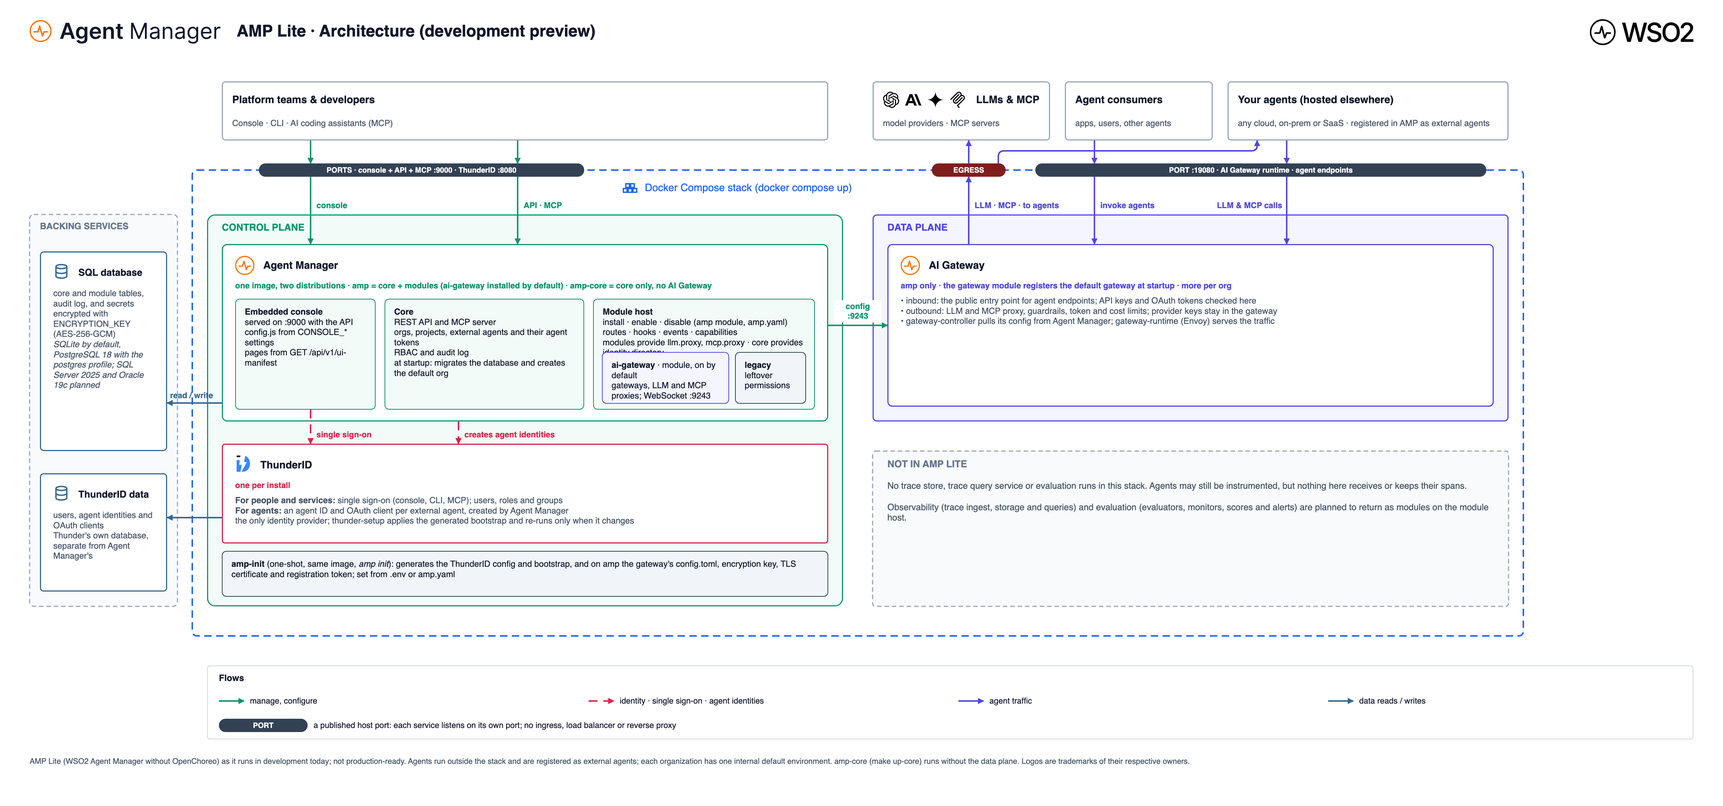
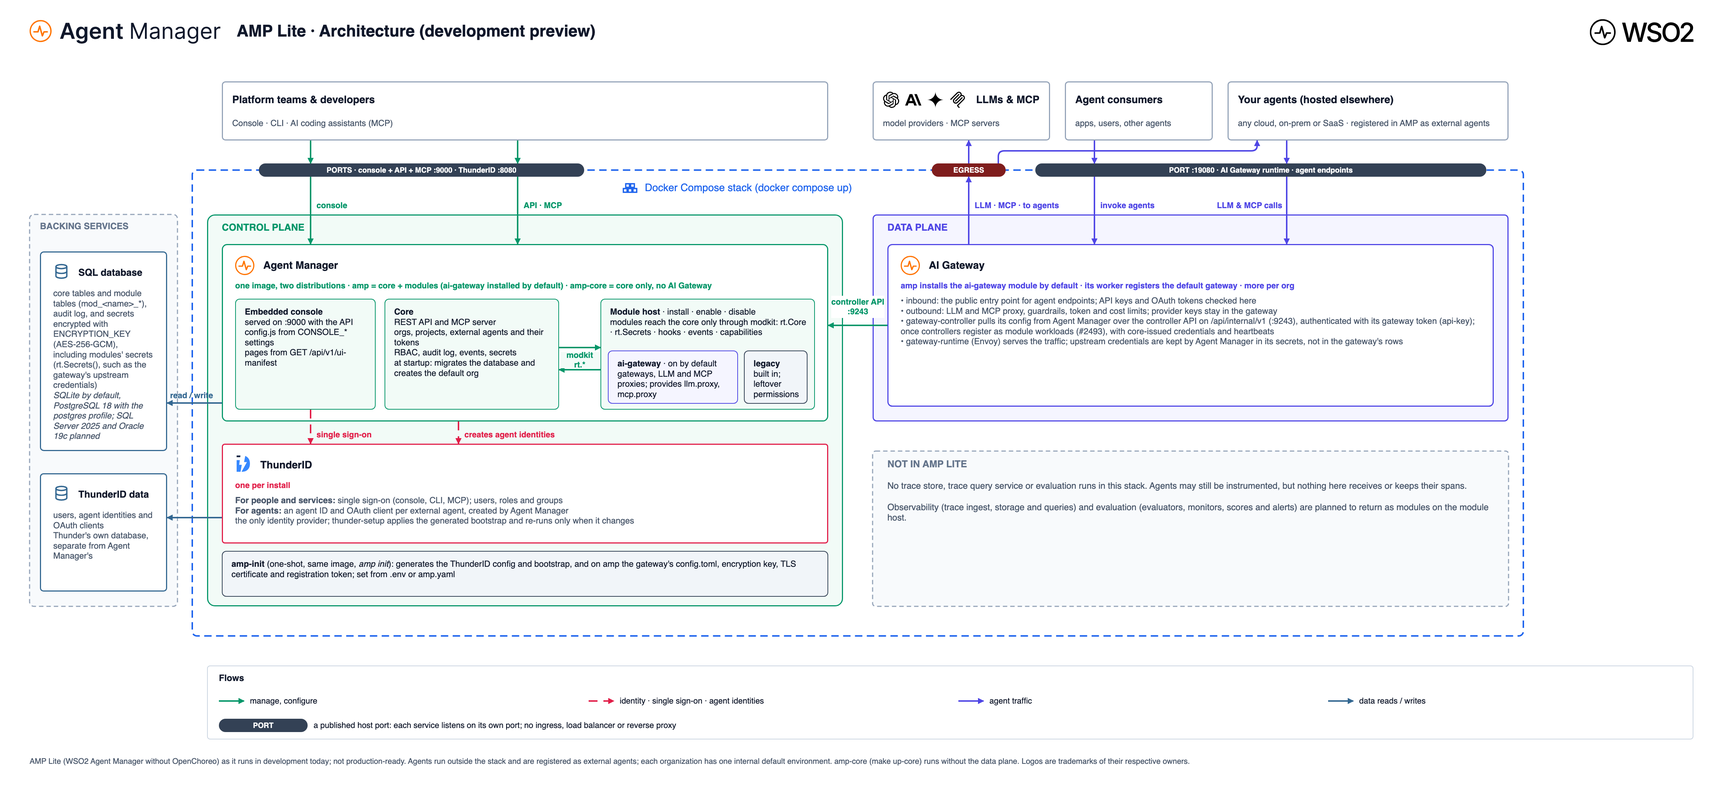
Show the modkit seam in the architecture diagram
The module host box clipped its text and the diagram did not show how
modules reach the core. Core and module host are now joined by the
modkit seam (rt.Core, rt.Secrets, hooks, events, capabilities), the
gateway controller's link is the controller API on /api/internal/v1
with its gateway token until controllers register as workloads, and
the database box names module secrets such as the gateway's upstream
credentials.

diff --git a/docs/amp-lite/architecture.html b/docs/amp-lite/architecture.html
@@ -44,10 +44,10 @@ html,body { margin:0; background:#ffffff; }
 <div class="a t" style="left:318px;top:380px;width:784px;height:16px;z-index:31;justify-content:flex-start;text-align:left;font-size:11px;color:#059669;font-weight:700;font-style:normal"><div>one image, two distributions · amp = core + modules (ai-gateway installed by default) · amp-core = core only, no AI Gateway</div></div>
 <div class="a t" style="left:318px;top:400px;width:784px;height:160px;z-index:32;justify-content:flex-start;text-align:left;font-size:11.5px;color:#475569;font-weight:400;font-style:normal"><div></div></div>
 <div class="a sub" style="left:318px;top:404px;width:190px;height:150px;z-index:33;box-sizing:border-box;border:1px solid #059669;background:#F2FBF7;color:#0f172a"><b>Embedded console</b><br/>served on :9000 with the API<br/>config.js from CONSOLE_* settings<br/>pages from GET /api/v1/ui-manifest</div>
-<div class="a sub" style="left:520px;top:404px;width:270px;height:150px;z-index:34;box-sizing:border-box;border:1px solid #059669;background:#F2FBF7;color:#0f172a"><b>Core</b><br/>REST API and MCP server<br/>orgs, projects, external agents and their agent tokens<br/>RBAC and audit log<br/>at startup: migrates the database and creates the default org</div>
-<div class="a sub" style="left:802px;top:404px;width:300px;height:150px;z-index:35;box-sizing:border-box;border:1px solid #059669;background:#F2FBF7;color:#0f172a"><b>Module host</b><br/>install · enable · disable (amp module, amp.yaml)<br/>routes · hooks · events · capabilities<br/>modules provide llm.proxy, mcp.proxy · core provides identity.directory</div>
-<div class="a sub" style="left:814px;top:476px;width:172px;height:70px;z-index:36;box-sizing:border-box;border:1px solid #4f46e5;background:#F5F5FF;color:#0f172a"><b>ai-gateway</b> · module, on by default<br/>gateways, LLM and MCP proxies; WebSocket :9243</div>
-<div class="a sub" style="left:994px;top:476px;width:96px;height:70px;z-index:37;box-sizing:border-box;border:1px solid #334155;background:#F1F5F9;color:#0f172a"><b>legacy</b><br/>leftover permissions</div>
+<div class="a sub" style="left:520px;top:404px;width:236px;height:150px;z-index:34;box-sizing:border-box;border:1px solid #059669;background:#F2FBF7;color:#0f172a"><b>Core</b><br/>REST API and MCP server<br/>orgs, projects, external agents and their tokens<br/>RBAC, audit log, events, secrets<br/>at startup: migrates the database and creates the default org</div>
+<div class="a sub" style="left:812px;top:404px;width:290px;height:150px;z-index:35;box-sizing:border-box;border:1px solid #059669;background:#F2FBF7;color:#0f172a"><b>Module host</b> · install · enable · disable<br/>modules reach the core only through modkit: rt.Core · rt.Secrets · hooks · events · capabilities</div>
+<div class="a sub" style="left:822px;top:474px;width:176px;height:72px;z-index:36;box-sizing:border-box;border:1px solid #4f46e5;background:#F5F5FF;color:#0f172a"><b>ai-gateway</b> · on by default<br/>gateways, LLM and MCP proxies; provides llm.proxy, mcp.proxy</div>
+<div class="a sub" style="left:1006px;top:474px;width:86px;height:72px;z-index:37;box-sizing:border-box;border:1px solid #334155;background:#F1F5F9;color:#0f172a"><b>legacy</b><br/>built in; leftover permissions</div>
 <div class="a" style="left:300px;top:600px;width:820px;height:135px;z-index:38;box-sizing:border-box;border:1.5px solid #e11d48;background:#FFFFFF;border-radius:4.05px"></div>
[1 lines of base64/hex data omitted]
 <div class="a t" style="left:352px;top:614px;width:758px;height:30px;z-index:40;justify-content:center;text-align:left;font-size:14px;color:#0f172a;font-weight:700;font-style:normal"><div>ThunderID</div></div>
@@ -59,8 +59,8 @@ html,body { margin:0; background:#ffffff; }
 <div class="a" style="left:1200px;top:330px;width:820px;height:220px;z-index:46;box-sizing:border-box;border:1.5px solid #4f46e5;background:#FFFFFF;border-radius:6.6px"></div>
[1 lines of base64/hex data omitted]
 <div class="a t" style="left:1256px;top:344px;width:754px;height:30px;z-index:48;justify-content:center;text-align:left;font-size:14px;color:#0f172a;font-weight:700;font-style:normal"><div>AI Gateway</div></div>
-<div class="a t" style="left:1218px;top:380px;width:784px;height:16px;z-index:49;justify-content:flex-start;text-align:left;font-size:11px;color:#4f46e5;font-weight:700;font-style:normal"><div>amp only · the gateway module registers the default gateway at startup · more per org</div></div>
-<div class="a t" style="left:1218px;top:400px;width:784px;height:140px;z-index:50;justify-content:flex-start;text-align:left;font-size:11.5px;color:#475569;font-weight:400;font-style:normal"><div>• inbound: the public entry point for agent endpoints; API keys and OAuth tokens checked here<br/>• outbound: LLM and MCP proxy, guardrails, token and cost limits; provider keys stay in the gateway<br/>• gateway-controller pulls its config from Agent Manager; gateway-runtime (Envoy) serves the traffic</div></div>
+<div class="a t" style="left:1218px;top:380px;width:784px;height:16px;z-index:49;justify-content:flex-start;text-align:left;font-size:11px;color:#4f46e5;font-weight:700;font-style:normal"><div>amp installs the ai-gateway module by default · its worker registers the default gateway · more per org</div></div>
+<div class="a t" style="left:1218px;top:400px;width:784px;height:140px;z-index:50;justify-content:flex-start;text-align:left;font-size:11.5px;color:#475569;font-weight:400;font-style:normal"><div>• inbound: the public entry point for agent endpoints; API keys and OAuth tokens checked here<br/>• outbound: LLM and MCP proxy, guardrails, token and cost limits; provider keys stay in the gateway<br/>• gateway-controller pulls its config from Agent Manager over the controller API on /api/internal/v1 (:9243), authenticated with its gateway token (api-key); once controllers register as module workloads (#2493), with core-issued credentials and heartbeats<br/>• gateway-runtime (Envoy) serves the traffic; upstream credentials are kept by Agent Manager in its secrets, not in the gateway's rows</div></div>
 <svg class="e" style="z-index:51;left:1178px;top:608px" width="864" height="214"><rect x="2" y="2" width="860" height="210" rx="4.2" fill="#F8FAFC" stroke="#94a3b8" stroke-width="1.5" stroke-dasharray="6 4" transform=""/></svg>
 <div class="a t" style="left:1200px;top:618px;width:820px;height:20px;z-index:52;justify-content:center;text-align:left;font-size:13px;color:#64748b;font-weight:700;font-style:normal"><div>NOT IN AMP LITE</div></div>
 <div class="a t" style="left:1200px;top:650px;width:820px;height:150px;z-index:53;justify-content:flex-start;text-align:left;font-size:12px;color:#475569;font-weight:400;font-style:normal"><div>No trace store, trace query service or evaluation runs in this stack. Agents may still be instrumented, but nothing here receives or keeps their spans.<br/><br/>Observability (trace ingest, storage and queries) and evaluation (evaluators, monitors, scores and alerts) are planned to return as modules on the module host.</div></div>
@@ -69,7 +69,7 @@ html,body { margin:0; background:#ffffff; }
 <div class="a" style="left:54px;top:340px;width:172px;height:270px;z-index:56;box-sizing:border-box;border:1.5px solid #336791;background:#FFFFFF;border-radius:5.16px"></div>
[1 lines of base64/hex data omitted]
 <div class="a t" style="left:106px;top:354px;width:110px;height:30px;z-index:58;justify-content:center;text-align:left;font-size:13px;color:#0f172a;font-weight:700;font-style:normal"><div>SQL database</div></div>
-<div class="a t" style="left:72px;top:390px;width:136px;height:210px;z-index:59;justify-content:flex-start;text-align:left;font-size:11.5px;color:#475569;font-weight:400;font-style:normal"><div>core and module tables, audit log, and secrets encrypted with ENCRYPTION_KEY (AES-256-GCM)<br/><i>SQLite by default, PostgreSQL 18 with the postgres profile; SQL Server 2025 and Oracle 19c planned</i></div></div>
+<div class="a t" style="left:72px;top:390px;width:136px;height:210px;z-index:59;justify-content:flex-start;text-align:left;font-size:11.5px;color:#475569;font-weight:400;font-style:normal"><div>core tables and module tables (mod_&lt;name&gt;_*), audit log, and secrets encrypted with ENCRYPTION_KEY (AES-256-GCM), including modules' secrets (rt.Secrets(), such as the gateway's upstream credentials)<br/><i>SQLite by default, PostgreSQL 18 with the postgres profile; SQL Server 2025 and Oracle 19c planned</i></div></div>
 <div class="a" style="left:54px;top:640px;width:172px;height:160px;z-index:60;box-sizing:border-box;border:1.5px solid #336791;background:#FFFFFF;border-radius:4.8px"></div>
[1 lines of base64/hex data omitted]
 <div class="a t" style="left:106px;top:654px;width:110px;height:30px;z-index:62;justify-content:center;text-align:left;font-size:13px;color:#0f172a;font-weight:700;font-style:normal"><div>ThunderID data</div></div>
@@ -90,26 +90,29 @@ html,body { margin:0; background:#ffffff; }
 <svg class="e" style="z-index:77" width="2330" height="1090"><path d="M1310,221 L1310,190" fill="none" stroke="#4f46e5" stroke-width="2" marker-end="url(#m4f46e5)"/></svg>
 <svg class="e" style="z-index:78" width="2330" height="1090"><path d="M1350,221 L1350.0,212.0 Q1350,204 1358.0,204.0 L1692.0,204.0 Q1700,204 1700.0,197.0 L1700,190" fill="none" stroke="#4f46e5" stroke-width="2" marker-end="url(#m4f46e5)"/></svg>
 <div class="a t" style="left:1318px;top:270px;width:150px;height:16px;z-index:79;justify-content:center;text-align:left;font-size:11px;color:#4f46e5;font-weight:700;font-style:normal"><div>LLM · MCP · to agents</div></div>
-<svg class="e" style="z-index:80" width="2330" height="1090"><path d="M1120,440 L1200,440" fill="none" stroke="#059669" stroke-width="2" marker-end="url(#m059669)"/></svg>
-<div class="a t" style="left:1128px;top:406px;width:64px;height:30px;z-index:81;background:#FFFFFF;justify-content:center;text-align:center;font-size:11px;color:#059669;font-weight:700;font-style:normal"><div>config<br/>:9243</div></div>
-<svg class="e" style="z-index:82" width="2330" height="1090"><path d="M420,554 L420,600" fill="none" stroke="#e11d48" stroke-width="2" stroke-dasharray="12 8" marker-end="url(#me11d48)"/></svg>
-<div class="a t" style="left:428px;top:580px;width:100px;height:16px;z-index:83;justify-content:center;text-align:left;font-size:11px;color:#e11d48;font-weight:700;font-style:normal"><div>single sign-on</div></div>
-<svg class="e" style="z-index:84" width="2330" height="1090"><path d="M620,570 L620,600" fill="none" stroke="#e11d48" stroke-width="2" stroke-dasharray="12 8" marker-end="url(#me11d48)"/></svg>
-<div class="a t" style="left:628px;top:580px;width:160px;height:16px;z-index:85;justify-content:center;text-align:left;font-size:11px;color:#e11d48;font-weight:700;font-style:normal"><div>creates agent identities</div></div>
-<svg class="e" style="z-index:86" width="2330" height="1090"><path d="M300,545 L226,545" fill="none" stroke="#336791" stroke-width="2" marker-end="url(#m336791)"/></svg>
-<div class="a t" style="left:230px;top:527px;width:70px;height:16px;z-index:87;justify-content:center;text-align:left;font-size:11px;color:#336791;font-weight:700;font-style:normal"><div>read / write</div></div>
-<svg class="e" style="z-index:88" width="2330" height="1090"><path d="M300,700 L226,700" fill="none" stroke="#336791" stroke-width="2" marker-end="url(#m336791)"/></svg>
-<div class="a" style="left:280px;top:900px;width:2010px;height:100px;z-index:89;box-sizing:border-box;border:1px solid #cbd5e1;background:#FFFFFF;border-radius:4.0px"></div>
-<div class="a t" style="left:296px;top:908px;width:200px;height:18px;z-index:90;justify-content:center;text-align:left;font-size:12px;color:#0f172a;font-weight:700;font-style:normal"><div>Flows</div></div>
-<svg class="e" style="z-index:91" width="2330" height="1090"><path d="M296,948 L330,948" fill="none" stroke="#059669" stroke-width="2" marker-end="url(#m059669)"/></svg>
-<div class="a t" style="left:338px;top:940px;width:226px;height:16px;z-index:92;justify-content:center;text-align:left;font-size:11px;color:#0f172a;font-weight:400;font-style:normal"><div>manage, configure</div></div>
-<svg class="e" style="z-index:93" width="2330" height="1090"><path d="M796,948 L830,948" fill="none" stroke="#e11d48" stroke-width="2" stroke-dasharray="12 8" marker-end="url(#me11d48)"/></svg>
-<div class="a t" style="left:838px;top:940px;width:226px;height:16px;z-index:94;justify-content:center;text-align:left;font-size:11px;color:#0f172a;font-weight:400;font-style:normal"><div>identity · single sign-on · agent identities</div></div>
-<svg class="e" style="z-index:95" width="2330" height="1090"><path d="M1296,948 L1330,948" fill="none" stroke="#4f46e5" stroke-width="2" marker-end="url(#m4f46e5)"/></svg>
-<div class="a t" style="left:1338px;top:940px;width:226px;height:16px;z-index:96;justify-content:center;text-align:left;font-size:11px;color:#0f172a;font-weight:400;font-style:normal"><div>agent traffic</div></div>
-<svg class="e" style="z-index:97" width="2330" height="1090"><path d="M1796,948 L1830,948" fill="none" stroke="#336791" stroke-width="2" marker-end="url(#m336791)"/></svg>
-<div class="a t" style="left:1838px;top:940px;width:226px;height:16px;z-index:98;justify-content:center;text-align:left;font-size:11px;color:#0f172a;font-weight:400;font-style:normal"><div>data reads / writes</div></div>
-<div class="a pill" style="left:296px;top:972px;width:120px;height:18px;z-index:99;background:#334155"><b>PORT</b></div>
-<div class="a t" style="left:424px;top:972px;width:1100px;height:18px;z-index:100;justify-content:center;text-align:left;font-size:11px;color:#0f172a;font-weight:400;font-style:normal"><div>a published host port: each service listens on its own port; no ingress, load balancer or reverse proxy</div></div>
-<div class="a t" style="left:40px;top:1020px;width:2250px;height:20px;z-index:101;justify-content:center;text-align:left;font-size:10.5px;color:#475569;font-weight:400;font-style:normal"><div>AMP Lite (WSO2 Agent Manager without OpenChoreo) as it runs in development today; not production-ready. Agents run outside the stack and are registered as external agents; each organization has one internal default environment. amp-core (make up-core) runs without the data plane. Logos are trademarks of their respective owners.</div></div>
+<svg class="e" style="z-index:80" width="2330" height="1090"><path d="M756,470 L812,470" fill="none" stroke="#059669" stroke-width="2" marker-end="url(#m059669)"/></svg>
+<svg class="e" style="z-index:81" width="2330" height="1090"><path d="M812,500 L756,500" fill="none" stroke="#059669" stroke-width="2" marker-end="url(#m059669)"/></svg>
+<div class="a t" style="left:758px;top:476px;width:52px;height:22px;z-index:82;background:#F2FBF7;justify-content:center;text-align:center;font-size:11px;color:#059669;font-weight:700;font-style:normal"><div>modkit<br/>rt.*</div></div>
+<svg class="e" style="z-index:83" width="2330" height="1090"><path d="M1200,440 L1120,440" fill="none" stroke="#059669" stroke-width="2" marker-end="url(#m059669)"/></svg>
+<div class="a t" style="left:1124px;top:400px;width:72px;height:30px;z-index:84;background:#FFFFFF;justify-content:center;text-align:center;font-size:11px;color:#059669;font-weight:700;font-style:normal"><div>controller API<br/>:9243</div></div>
+<svg class="e" style="z-index:85" width="2330" height="1090"><path d="M420,554 L420,600" fill="none" stroke="#e11d48" stroke-width="2" stroke-dasharray="12 8" marker-end="url(#me11d48)"/></svg>
+<div class="a t" style="left:428px;top:580px;width:100px;height:16px;z-index:86;justify-content:center;text-align:left;font-size:11px;color:#e11d48;font-weight:700;font-style:normal"><div>single sign-on</div></div>
+<svg class="e" style="z-index:87" width="2330" height="1090"><path d="M620,570 L620,600" fill="none" stroke="#e11d48" stroke-width="2" stroke-dasharray="12 8" marker-end="url(#me11d48)"/></svg>
+<div class="a t" style="left:628px;top:580px;width:160px;height:16px;z-index:88;justify-content:center;text-align:left;font-size:11px;color:#e11d48;font-weight:700;font-style:normal"><div>creates agent identities</div></div>
+<svg class="e" style="z-index:89" width="2330" height="1090"><path d="M300,545 L226,545" fill="none" stroke="#336791" stroke-width="2" marker-end="url(#m336791)"/></svg>
+<div class="a t" style="left:230px;top:527px;width:70px;height:16px;z-index:90;justify-content:center;text-align:left;font-size:11px;color:#336791;font-weight:700;font-style:normal"><div>read / write</div></div>
+<svg class="e" style="z-index:91" width="2330" height="1090"><path d="M300,700 L226,700" fill="none" stroke="#336791" stroke-width="2" marker-end="url(#m336791)"/></svg>
+<div class="a" style="left:280px;top:900px;width:2010px;height:100px;z-index:92;box-sizing:border-box;border:1px solid #cbd5e1;background:#FFFFFF;border-radius:4.0px"></div>
+<div class="a t" style="left:296px;top:908px;width:200px;height:18px;z-index:93;justify-content:center;text-align:left;font-size:12px;color:#0f172a;font-weight:700;font-style:normal"><div>Flows</div></div>
+<svg class="e" style="z-index:94" width="2330" height="1090"><path d="M296,948 L330,948" fill="none" stroke="#059669" stroke-width="2" marker-end="url(#m059669)"/></svg>
+<div class="a t" style="left:338px;top:940px;width:226px;height:16px;z-index:95;justify-content:center;text-align:left;font-size:11px;color:#0f172a;font-weight:400;font-style:normal"><div>manage, configure</div></div>
+<svg class="e" style="z-index:96" width="2330" height="1090"><path d="M796,948 L830,948" fill="none" stroke="#e11d48" stroke-width="2" stroke-dasharray="12 8" marker-end="url(#me11d48)"/></svg>
+<div class="a t" style="left:838px;top:940px;width:226px;height:16px;z-index:97;justify-content:center;text-align:left;font-size:11px;color:#0f172a;font-weight:400;font-style:normal"><div>identity · single sign-on · agent identities</div></div>
+<svg class="e" style="z-index:98" width="2330" height="1090"><path d="M1296,948 L1330,948" fill="none" stroke="#4f46e5" stroke-width="2" marker-end="url(#m4f46e5)"/></svg>
+<div class="a t" style="left:1338px;top:940px;width:226px;height:16px;z-index:99;justify-content:center;text-align:left;font-size:11px;color:#0f172a;font-weight:400;font-style:normal"><div>agent traffic</div></div>
+<svg class="e" style="z-index:100" width="2330" height="1090"><path d="M1796,948 L1830,948" fill="none" stroke="#336791" stroke-width="2" marker-end="url(#m336791)"/></svg>
+<div class="a t" style="left:1838px;top:940px;width:226px;height:16px;z-index:101;justify-content:center;text-align:left;font-size:11px;color:#0f172a;font-weight:400;font-style:normal"><div>data reads / writes</div></div>
+<div class="a pill" style="left:296px;top:972px;width:120px;height:18px;z-index:102;background:#334155"><b>PORT</b></div>
+<div class="a t" style="left:424px;top:972px;width:1100px;height:18px;z-index:103;justify-content:center;text-align:left;font-size:11px;color:#0f172a;font-weight:400;font-style:normal"><div>a published host port: each service listens on its own port; no ingress, load balancer or reverse proxy</div></div>
+<div class="a t" style="left:40px;top:1020px;width:2250px;height:20px;z-index:104;justify-content:center;text-align:left;font-size:10.5px;color:#475569;font-weight:400;font-style:normal"><div>AMP Lite (WSO2 Agent Manager without OpenChoreo) as it runs in development today; not production-ready. Agents run outside the stack and are registered as external agents; each organization has one internal default environment. amp-core (make up-core) runs without the data plane. Logos are trademarks of their respective owners.</div></div>
 </div></body></html>

diff --git a/docs/amp-lite/src/architecture_gen.py b/docs/amp-lite/src/architecture_gen.py
@@ -109,20 +109,21 @@ sub("console", 318, 404, 190, 150,
     "pages from GET /api/v1/ui-manifest",
     GREEN, "#F2FBF7")
 reg("console", 318, 404, 190, 150)
-reg("core", 520, 404, 270, 150)
-sub("core", 520, 404, 270, 150,
-    "<b>Core</b><br/>REST API and MCP server<br/>orgs, projects, external agents and their agent tokens<br/>"
-    "RBAC and audit log<br/>at startup: migrates the database and creates the default org",
+reg("core", 520, 404, 236, 150)
+sub("core", 520, 404, 236, 150,
+    "<b>Core</b><br/>REST API and MCP server<br/>orgs, projects, external agents and their tokens<br/>"
+    "RBAC, audit log, events, secrets<br/>at startup: migrates the database and creates the default org",
     GREEN, "#F2FBF7")
-sub("modhost", 802, 404, 300, 150,
-    "<b>Module host</b><br/>install · enable · disable (amp module, amp.yaml)<br/>routes · hooks · events · capabilities<br/>"
-    "modules provide llm.proxy, mcp.proxy · core provides identity.directory",
+reg("modhost", 812, 404, 290, 150)
+sub("modhost", 812, 404, 290, 150,
+    "<b>Module host</b> · install · enable · disable<br/>"
+    "modules reach the core only through modkit: rt.Core · rt.Secrets · hooks · events · capabilities",
     GREEN, "#F2FBF7")
-sub("mod_gw", 814, 476, 172, 70,
-    "<b>ai-gateway</b> · module, on by default<br/>gateways, LLM and MCP proxies; WebSocket :9243",
+sub("mod_gw", 822, 474, 176, 72,
+    "<b>ai-gateway</b> · on by default<br/>gateways, LLM and MCP proxies; provides llm.proxy, mcp.proxy",
     INDIGO, "#F5F5FF")
-sub("mod_legacy", 994, 476, 96, 70,
-    "<b>legacy</b><br/>leftover permissions",
+sub("mod_legacy", 1006, 474, 86, 72,
+    "<b>legacy</b><br/>built in; leftover permissions",
     SLATE, "#F1F5F9")
 comp("thunder", 300, 600, 820, 135, RED, "ThunderID",
      "<b>For people and services:</b> single sign-on (console, CLI, MCP); users, roles and groups<br/>"
@@ -141,8 +142,10 @@ text("dp_lbl", 1200, 298, 820, 20, "DATA PLANE", size=13, color=INDIGO, bold=Tru
 comp("gw", 1200, 330, 820, 220, INDIGO, "AI Gateway",
      "• inbound: the public entry point for agent endpoints; API keys and OAuth tokens checked here<br/>"
      "• outbound: LLM and MCP proxy, guardrails, token and cost limits; provider keys stay in the gateway<br/>"
-     "• gateway-controller pulls its config from Agent Manager; gateway-runtime (Envoy) serves the traffic",
-     logos=[IMG["gw_logo0"]], prod="amp only · the gateway module registers the default gateway at startup · more per org", prod_color=INDIGO)
+     "• gateway-controller pulls its config from Agent Manager over the controller API on /api/internal/v1 (:9243), "
+     "authenticated with its gateway token (api-key); once controllers register as module workloads (#2493), with core-issued credentials and heartbeats<br/>"
+     "• gateway-runtime (Envoy) serves the traffic; upstream credentials are kept by Agent Manager in its secrets, not in the gateway's rows",
+     logos=[IMG["gw_logo0"]], prod="amp installs the ai-gateway module by default · its worker registers the default gateway · more per org", prod_color=INDIGO)
 
 # ---------------------------------------------------------------- not in Lite
 box("later", 1180, 610, 860, 210, GREY, fill="#F8FAFC", arc=2, dashed=True)
@@ -163,7 +166,8 @@ def backing(id, x, y, w, h, sub_text=""):
 
 backing("bk_left", 40, 290, 200, 530)
 comp("sqldb", 54, 340, 172, 270, BLUE, "SQL database",
-     "core and module tables, audit log, and secrets encrypted with ENCRYPTION_KEY (AES-256-GCM)<br/><i>SQLite by default, PostgreSQL 18 with the postgres profile; SQL Server 2025 and Oracle 19c planned</i>",
+     "core tables and module tables (mod_&lt;name&gt;_*), audit log, and secrets encrypted with ENCRYPTION_KEY (AES-256-GCM), "
+     "including modules' secrets (rt.Secrets(), such as the gateway's upstream credentials)<br/><i>SQLite by default, PostgreSQL 18 with the postgres profile; SQL Server 2025 and Oracle 19c planned</i>",
      logos=[DB_ICON], logo_size=22, title_size=13)
 comp("thdb", 54, 640, 172, 160, BLUE, "ThunderID data",
      "users, agent identities and OAuth clients<br/>Thunder's own database, separate from Agent Manager's",
@@ -192,8 +196,11 @@ edge("f_eg_ag", [(1350, 221), (1350, 204), (1700, 204), (1700, 190)], INDIGO, "e
 label("l_llm", 1318, 270, 150, "LLM · MCP · to agents", INDIGO)
 
 # control plane
-edge("f_api_gwcfg", [(1120, 440), (1200, 440)], GREEN, "amapi", "gw")
-label("l_gwcfg", 1128, 406, 64, "config<br/>:9243", GREEN, align="center", fill="#FFFFFF", h=30)
+edge("f_core_mod", [(756, 470), (812, 470)], GREEN, "core", "modhost")
+edge("f_mod_core", [(812, 500), (756, 500)], GREEN, "modhost", "core")
+label("l_modkit", 758, 476, 52, "modkit<br/>rt.*", GREEN, align="center", fill="#F2FBF7", h=22)
+edge("f_api_gwcfg", [(1200, 440), (1120, 440)], GREEN, "gw", "amapi")
+label("l_gwcfg", 1124, 400, 72, "controller API<br/>:9243", GREEN, align="center", fill="#FFFFFF", h=30)
 edge("f_sso", [(420, 554), (420, 600)], RED, "console", "thunder", dashed=True)
 label("l_sso", 428, 580, 100, "single sign-on", RED)
 edge("f_api_th", [(620, 570), (620, 600)], RED, "amapi", "thunder", dashed=True)
